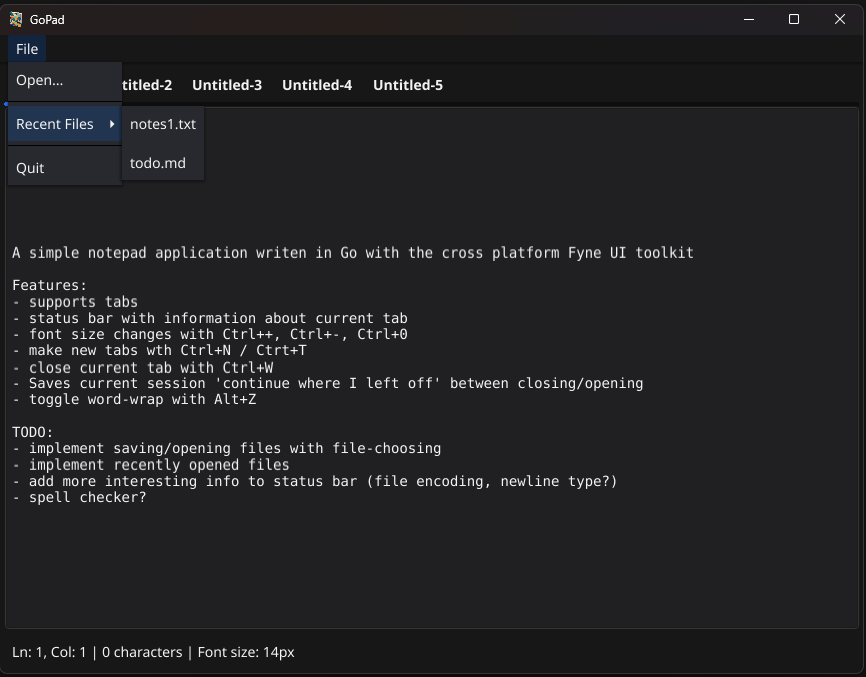
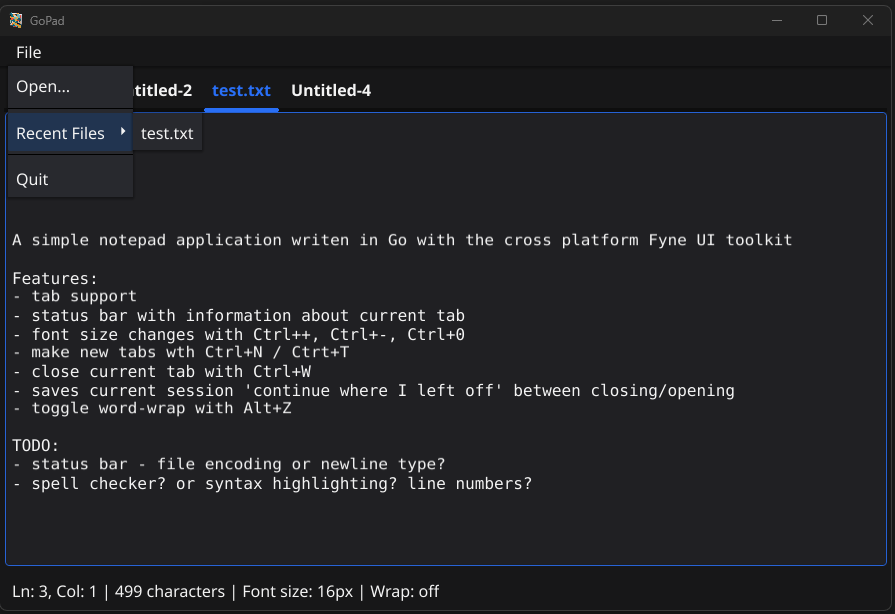
update screenshot

diff --git a/tabs.go b/tabs.go
@@ -271,6 +271,8 @@ func (tm *TabManager) handleShortcut(entry *TabEntryWithShortcut, shortcut fyne.
 		switch {
 		case sc.KeyName == fyne.KeyN && sc.Modifier == fyne.KeyModifierControl:
 			tm.NewTab("", "")
+		case sc.KeyName == fyne.KeyT && sc.Modifier == fyne.KeyModifierControl:
+			tm.NewTab("", "")
 		case sc.KeyName == fyne.KeyW && sc.Modifier == fyne.KeyModifierControl:
 			tm.closeCurrentTab()
 		case sc.KeyName == fyne.KeyMinus && sc.Modifier == fyne.KeyModifierControl:
@@ -294,6 +296,7 @@ func (tm *TabManager) handleShortcut(entry *TabEntryWithShortcut, shortcut fyne.
 			tm.saveCurrentFile()
 		case sc.KeyName == fyne.KeyQ && sc.Modifier == fyne.KeyModifierControl:
 			saveSession(tm.TabsData)
+			// TODO save recent files?
 			tm.App.Quit()
 		default:
 			fmt.Println("Unhandled shortcut:", sc)
